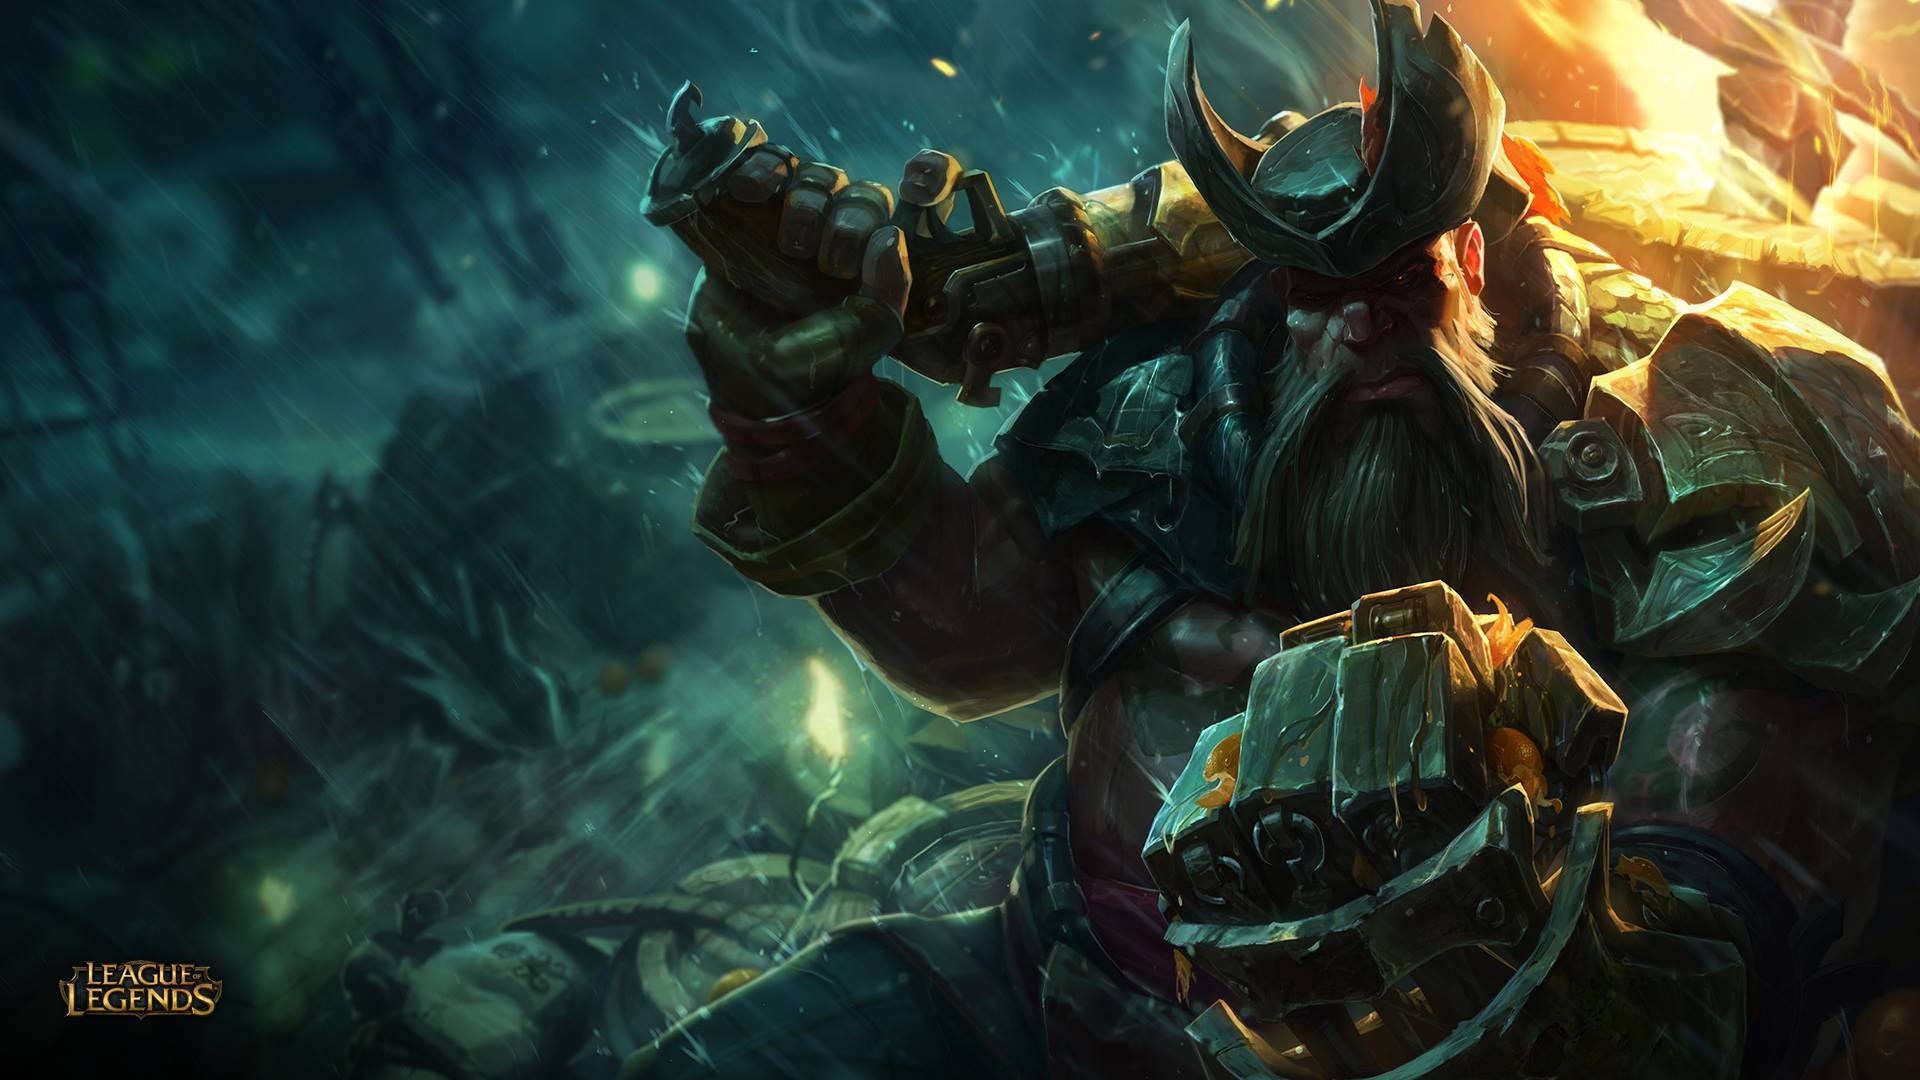
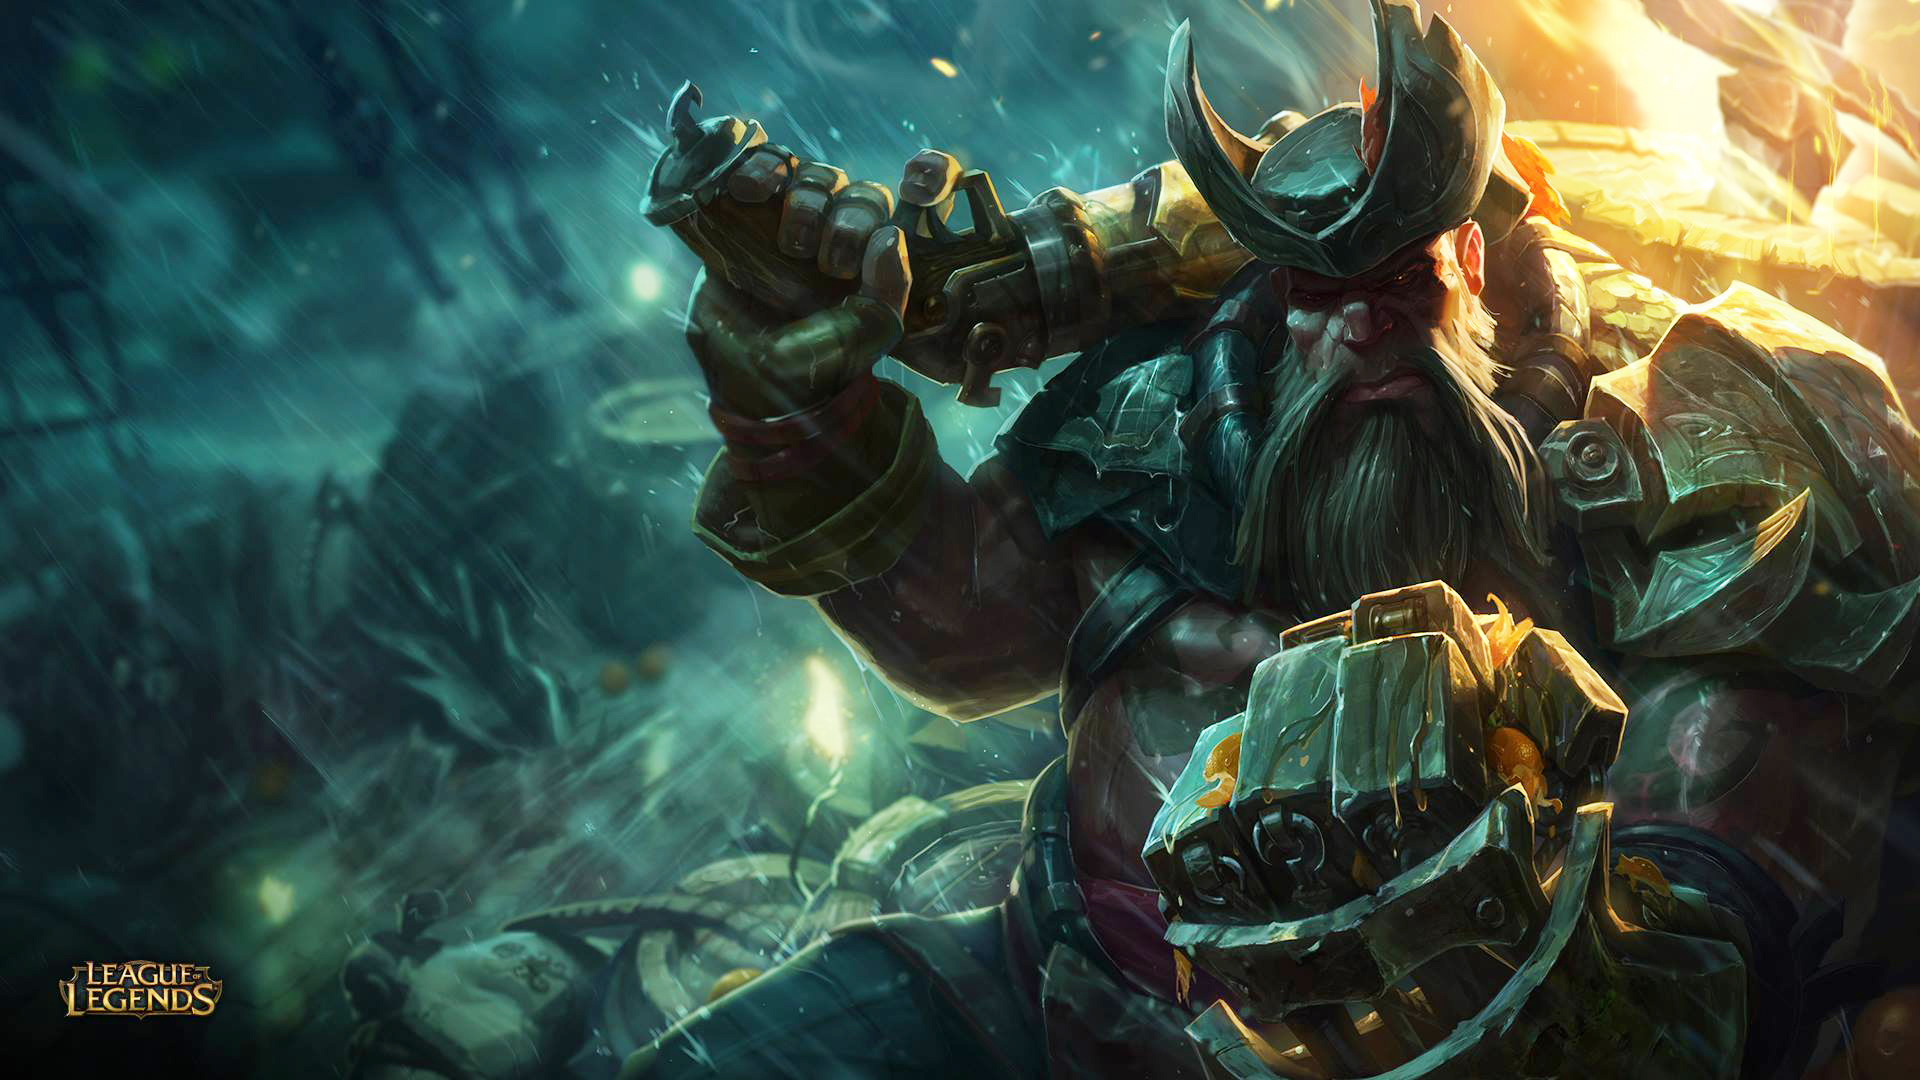
minor color balance changes

diff --git a/public_html/bootstrap/css/games_league.css b/public_html/bootstrap/css/games_league.css
@@ -1943,7 +1943,7 @@ a:focus {
 .chat-input {
     height: 60px;
     color: white;
-    margin-left: 5%;
+    margin-left: 7%;
     margin-right: 15%;
     border-top: 1px solid rgba(95, 127, 149, 0.36);
     border-bottom: 1px solid rgba(95, 127, 149, 0.36);
@@ -2325,9 +2325,8 @@ a:focus {
 }
 
 .lobby {
-    background: rgba(9, 12, 17, 0.65);
+    background: rgba(9, 12, 17, 0.55);
     height: 100vh;
-        box-shadow: inset 0px 3px 50vw rgba(0, 0, 0, 0.5);
 }
 
 .sidebar-lobby-note {
@@ -3456,7 +3455,7 @@ input[type=number]::-webkit-outer-spin-button {
 
 .menu-bar-top {
     height: 113px;
-    background: rgba(0, 0, 0, 0.98);
+    background: rgba(0, 0, 0, 0.95);
     width: 100%;
 }
 
@@ -3786,7 +3785,7 @@ input[type=number]::-webkit-outer-spin-button {
     width: 33.33%;
     height: calc(25vh - 23.25px);
     overflow: hidden;
-    background: rgba(8, 11, 14, 0.9);
+    background: rgba(8, 11, 14, 0.8);
     text-align: center;
 }
 
@@ -3803,6 +3802,7 @@ input[type=number]::-webkit-outer-spin-button {
 
 .lower-main-content {
     display: flex;
+    box-shadow:inset 0px 3px 14vw rgba(0, 0, 0, 0.4);
     height: calc(50vh - 56.5px);
     flex-flow: row wrap;
     align-content: space-between;
@@ -3845,13 +3845,13 @@ input[type=number]::-webkit-outer-spin-button {
 
 .chat {
     display: inline-block;
-    width: 29.3%;
+    width: 28.3%;
     margin-left: -3.7px;
     vertical-align: top;
-    background: rgba(9, 12, 17, 0.84);
-            box-shadow: inset 0px 3px 10vw rgba(0, 0, 0, 0.3);
+    background: rgba(9, 12, 17, 0.75);
+    box-shadow:0px 3px 70px rgba(0, 0, 0, 0.2), inset 0px 3px 10vw rgba(0, 0, 0, 0.3);
     height: calc(100vh - 113px);
-    border-left: solid 1px rgba(135, 145, 160, 0.1);
+        border-left: 1px solid rgba(95, 127, 149, 0.1);
 }
 
 .ntfc-title-wr-ref {
@@ -3952,8 +3952,8 @@ input[type=number]::-webkit-outer-spin-button {
 }
 
 .chat-groups {
-    margin-left: 5%;
-    margin-right: 15%;
+    margin-left: 7%;
+    margin-right: 10%;
     margin-top: 41px;
     -webkit-transition-timing-function: ease;
     transition-timing-function: ease;
@@ -4102,7 +4102,7 @@ input[type=number]::-webkit-outer-spin-button {
 
 .chat-content {
     overflow: hidden;
-    margin-left: 5%;
+    margin-left: 7%;
     margin-right: 16.5%;
     height: calc(100% - 280px);
 }
@@ -4135,7 +4135,7 @@ input[type=number]::-webkit-outer-spin-button {
 }
 
 .squad {
-    margin-left: 5%;
+    margin-left: 7%;
     margin-right: 15%;
     margin-top: 10px;
     -webkit-transition-timing-function: ease;
@@ -4420,9 +4420,10 @@ input[type=number]::-webkit-outer-spin-button {
 .lobby-top-teams {
     height: 80px;
     margin:auto;
-    background: rgba(9, 12, 17, 0.6);
+    background: rgba(9, 13, 19, 0.5);
     text-align: center;
     border-bottom:1px solid rgba(95, 127, 149, 0.0);
+    box-shadow:0px 3px 30px rgba(0, 0, 0, 0.4), inset 0px 3px 120px rgba(0, 0, 0, 0.3);
 }
 
 .team-name {
@@ -4529,7 +4530,7 @@ input[type=number]::-webkit-outer-spin-button {
     color: white;
     font-size: 24px;
     font-weight: 500;
-    margin-top: 10vh;
+    margin-top: 9vh;
     text-transform:uppercase;
 }
 

diff --git a/public_html/bootstrap/js/games_chat.js b/public_html/bootstrap/js/games_chat.js
@@ -183,7 +183,6 @@ function GamesChat_showSquadMemberDetails(){
     var imageSrc = "bootstrap/img/ava_sample_1.png";
     var squadMemberName = 'AX.Aeon.피자';
     var squadMemberRole = 'Support';
-    console.log(imageSrc);
     $('.squad-ava-img-self-swap').attr('src',imageSrc);
     $('.squad-ava-swap-helper').css('opacity', '1');
     $('.squad-ava-self-inf-alt > .squad-self-name-alt').text(squadMemberName);

diff --git a/public_html/games_details.html b/public_html/games_details.html
@@ -127,7 +127,7 @@
     <div class="content">
         <div class='vid-pattern'></div>
 
-        <img src='bootstrap/img/game_details_bg_league3.jpg' class='content-bg'>
+        <img src='bootstrap/img/game_details_bg_league2.png' class='content-bg'>
 
         <!-- Menu Bar -->
         <div class='menu-bar-top'>
